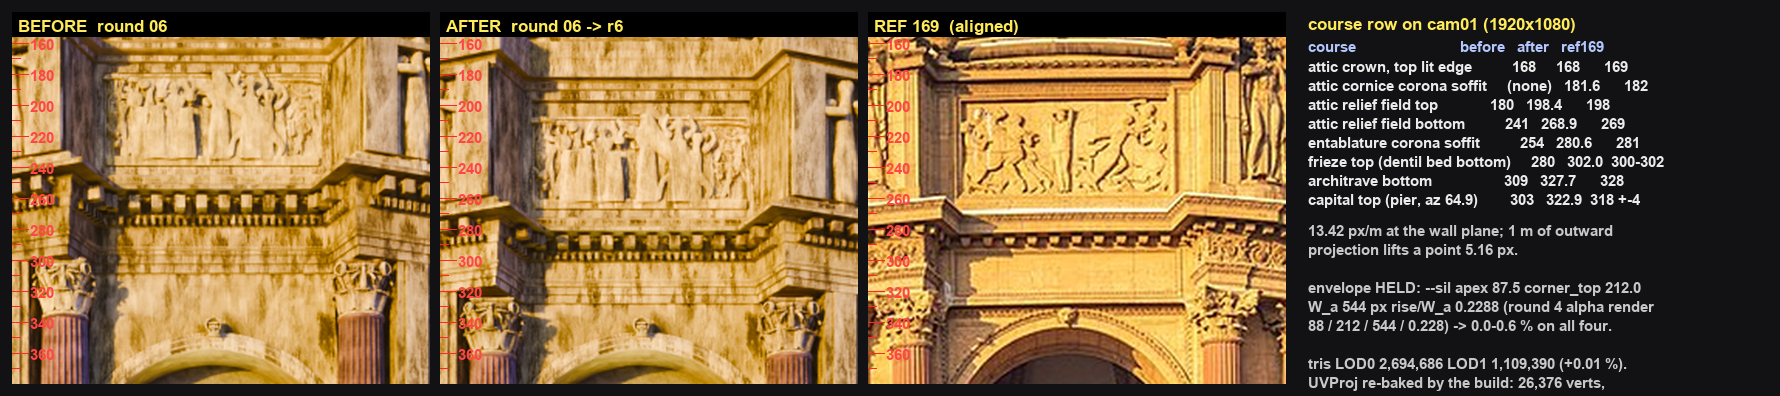
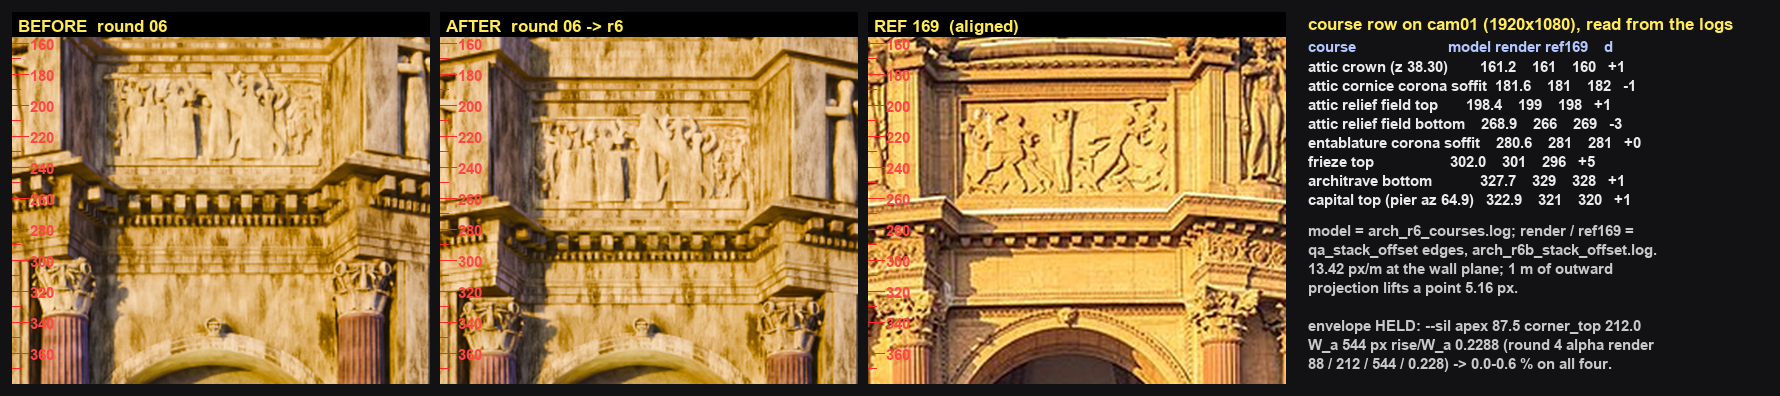
ARCH r6b: socket property contract, log-derived sheet, ref 062 re-fit (review fixes 1-7,10)
- capital_height on capital_rotunda/_inner/_colonnade, band_height on the 24 rotunda + 4
  colonnade frieze_run sockets, subtype=crown on the 8 arch keystones (review 1, 2)
- arch_socket_check --type props: per-type required-property table + non-zero exit (review 10)
- arch_stats.json written AFTER the save, so uvproj's tri guard compares the previous build
  and a uvproj raise can no longer leave stats for an unsaved build (review 6, 7)
- arch_ref062_fit: P.ATTIC_CORNICE_D instead of the hard-coded +0.74; re-fit logged (review 3)
- arch_r6_sheet: table parsed from arch_r6_courses.log + qa_stack_offset, "attic crown" row
  relabelled to the real crown z 38.30 / row 161.2 (review 5)
- qa_stack_offset re-run on the r6 sheet and on QA's pre-r6 sheet, logs committed (review 4)

Claude-Session: https://claude.ai/code/session_01BM3ywAYR2HwsafcB98516E

Changed region(s): [[0.7107, 0.5758, 0.927, 1.0], [0.7725, 0.0303, 0.9888, 0.5152]]

diff --git a/scripts/arch_build.py b/scripts/arch_build.py
@@ -248,7 +248,8 @@ def build_rotunda():
             for j, so in enumerate(base_src):
                 L.instance(f"ARCH_rotunda_colbase_{i:02d}_{j}", so, loc, math.atan2(u[1], u[0]) if j == 0 else 0.0, C)
         # capital socket at the shaft top, +Y outward (face normal); astragal bead just below it
-        SOCK.add("capital_rotunda", (ax[0], ax[1], P.COL_SHAFT_Z1), n, P.COL_D_TOP)
+        SOCK.add("capital_rotunda", (ax[0], ax[1], P.COL_SHAFT_Z1), n, P.COL_D_TOP,
+                 extra={"capital_height": P.CAPITAL_H})
         astragal(f"ARCH_rotunda_astragal_{i:02d}", ax, P.COL_SHAFT_Z1, r_t, C, M_ROSE)
         # pedestal
         L.box(f"ARCH_rotunda_pedestal_{i:02d}", ax, (P.PEDESTAL_SIZE, P.PEDESTAL_SIZE), P.PODIUM_TOP_Z - SINK,
@@ -345,7 +346,7 @@ def build_rotunda():
             SOCK.add("frieze_run", (a[0] + out[0] * fd, a[1] + out[1] * fd, P.ENTABLATURE_Z0 + P.ARCHITRAVE_H), out,
                      math.dist(a, b), size=0.4,
                      extra={"run_length": math.dist(a, b), "run_dir": (d[0], d[1], 0.0),
-                            "host": "rotunda", "subtype": "rinceau"})
+                            "band_height": P.FRIEZE_H, "host": "rotunda", "subtype": "rinceau"})
 
     # ---- faces: spandrel + attic plate with the arch notch and the sunk relief panel; vault; inner spandrel
     n_arc = 28
@@ -389,7 +390,8 @@ def build_rotunda():
         L.sweep_open(f"ARCH_rotunda_archivolt_{k:02d}", path, nrm, bnr, archivolt_profile(), C, mat=M_OCHRE, part_type="wall",
                      origin=(Cw[0], Cw[1], P.ARCH_SPRING_Z), bevel=False)
         # keystone at the extrados crown + two impost masks at the springing
-        SOCK.add("keystone", (Cw[0] + n[0] * 0.30, Cw[1] + n[1] * 0.30, P.ARCH_CROWN_Z + 0.55), n, 0.8)
+        SOCK.add("keystone", (Cw[0] + n[0] * 0.30, Cw[1] + n[1] * 0.30, P.ARCH_CROWN_Z + 0.55), n, 0.8,
+                 extra={"subtype": "crown"})
         for sgn in (-1, 1):
             SOCK.add("keystone", (Cw[0] + X.x * sgn * (half + 0.55) + n[0] * 0.30, Cw[1] + X.y * sgn * (half + 0.55) + n[1] * 0.30,
                                   P.ARCH_SPRING_Z - 0.25), n, 0.5, extra={"subtype": "impost_mask"}, size=0.4)
@@ -528,7 +530,8 @@ def build_rotunda():
         else:
             for j, so in enumerate(srcs["base"]):
                 L.instance(f"ARCH_rotunda_inner_colbase_{k:02d}_{j}", so, (ax[0], ax[1], -SINK), rz if j == 0 else 0.0, C)
-        SOCK.add("capital_inner", (ax[0], ax[1], P.INNER_COL_SHAFT_Z1), fr.v, ri * 2 * 0.86)
+        SOCK.add("capital_inner", (ax[0], ax[1], P.INNER_COL_SHAFT_Z1), fr.v, ri * 2 * 0.86,
+                 extra={"capital_height": P.INNER_CAPITAL_H})
         astragal(f"ARCH_rotunda_inner_astragal_{k:02d}", ax, P.INNER_COL_SHAFT_Z1, ri * 0.86, C, M_TAN)
         L.placeholder_capital(f"PH_capital_inner_{k:02d}", ri * 0.86, P.INNER_CAPITAL_H, C_PH, mat=M_TAN,
                               origin=(ax[0], ax[1], P.INNER_COL_SHAFT_Z1))
@@ -1158,7 +1161,8 @@ def build_wing(name, coll):
             for j, so in enumerate(base_src):
                 L.instance(f"ARCH_colonnade_{name}_colbase_{idx:03d}_{j}", so, (xy[0], xy[1], g - SINK), 0.0, coll)
         ztop = g + P.COLONNADE_BASE_H + h
-        SOCK.add("capital_colonnade", (xy[0], xy[1], ztop), inward, P.COLONNADE_D_TOP, extra={"tall": bool(tall), "wing": name})
+        SOCK.add("capital_colonnade", (xy[0], xy[1], ztop), inward, P.COLONNADE_D_TOP,
+                 extra={"tall": bool(tall), "wing": name, "capital_height": P.COLONNADE_CAPITAL_H})
         astragal(f"ARCH_colonnade_{name}_astragal_{idx:03d}", xy, ztop, r_t, coll, M_COLON)
         L.placeholder_capital(f"PH_capital_colonnade_{name}_{idx:03d}", r_t, P.COLONNADE_CAPITAL_H, C_PH, mat=M_COLON,
                               origin=(xy[0], xy[1], ztop))
@@ -1200,7 +1204,8 @@ def build_wing(name, coll):
                           pitch=1.125, depth=0.26, closed=False, mat=M_COLON, outward_sign=sgn if W.sgn > 0 else -sgn,
                           part_type="colonnade_entablature")
         SOCK.add("frieze_run", (path2[0][0], path2[0][1], z_ent + 0.02), (rad[0], rad[1]), s_b - s_a,
-                 extra={"run_length": s_b - s_a, "arc_center": (W.C[0], W.C[1], 0.0), "arc_radius": r, "subtype": "greek_fret"}, size=0.5)
+                 extra={"run_length": s_b - s_a, "arc_center": (W.C[0], W.C[1], 0.0), "arc_radius": r,
+                        "band_height": 0.50, "host": "colonnade", "subtype": "greek_fret"}, size=0.5)
     # pergola cross beams, one per bay, spanning the two rows
     seen = set()
     for (s, kind) in pos:
@@ -1333,7 +1338,6 @@ stats["tris_placeholders"] = L.tri_count([o for o in C_PH.objects])
 stats["objects"] = len(ARCH.all_objects)
 stats["build_seconds"] = round(time.time() - T0, 1)
 print("[arch] stats:", json.dumps(stats, indent=1))
-(common.DOCS / "arch_stats.json").write_text(json.dumps(stats, indent=1))
 
 # MANDATORY post-step (docs/reviews/arch_r5_review.md finding 1): the camera-space UV layer for the photo-projection
 # pass. It used to be a separate script nobody called, so any rebuild silently dropped `UVProj` / `UVProj_valid` and
@@ -1345,6 +1349,12 @@ exec(compile(_UVPROJ.read_text(), str(_UVPROJ), "exec"),
 
 if SAVE:
     common.save_blend(common.ASSETS / "architecture.blend")
+
+# r6 review findings 6 and 7: arch_stats.json is written AFTER the save, so (6) uvproj's tri-count guard above
+# compares the live counts against the PREVIOUS build's file instead of the one this build just wrote (it was
+# always "SAME"), and (7) a raise inside the uvproj post-step leaves the stats describing the last SAVED build
+# rather than a build that never reached the disk.
+(common.DOCS / "arch_stats.json").write_text(json.dumps(stats, indent=1))
 
 # ============================================================================= preview rig (not saved)
 if PREVIEW:

diff --git a/scripts/arch_r6_sheet.py b/scripts/arch_r6_sheet.py
@@ -8,9 +8,17 @@ Inputs, all already in the 1920x1080 cam01 pixel grid:
   after  : renders/previews/architecture/arch_r6_cam01_stack.png (this round's Cycles 64 spp border render)
 Outputs:
   renders/qa_comparisons/arch_r6_aligned_vs_ref169.png   3 panels (after | ref | blend) -- the file qa_stack_offset
-                                                         re-runs on, so QA's own tool measures this round's rows
+                                                         re-runs on, so QA's own tool measures this round's rows.
+                                                         INTERMEDIATE, regenerated by this script, not committed.
   renders/qa_comparisons/arch_r6_sheet.png               the composite for the report
+
+The burnt-in table is READ FROM THE LOGS, not transcribed (r6 review finding 5): the model row of each course comes
+from `renders/logs/arch_r6_courses.log` (`arch_entab_probe --courses`), and the rendered / photographed rows are the
+edges `renders/logs/arch_r6b_stack_offset.log` found in the same x 880-1040 band (`qa_stack_offset.py`), so the sheet
+can disagree with the report. Pairing rule, stated so it can be checked: for each course take the nearest RENDER edge
+with |dL/dy| >= 2 within 6 rows of the model row, then the nearest REF edge with |dL/dy| >= 6 within 6 rows of that.
 """
+import re
 import sys
 from pathlib import Path
 import numpy as np
@@ -24,15 +32,53 @@ FONT = "/System/Library/Fonts/Supplemental/Arial Bold.ttf"
 X0, X1, Y0, Y1 = 830, 1100, 140, 380          # the band the round-6 work moves (measurement band is x 880-1040)
 SCALE = 1.55
 
-# course table: (label, before row, after row, ref 169 row); rows are 1920x1080 cam01 rows.
-TABLE = [("attic crown, top lit edge", "168", "168", "169"),
-         ("attic cornice corona soffit", "(none)", "181.6", "182"),
-         ("attic relief field top", "180", "198.4", "198"),
-         ("attic relief field bottom", "241", "268.9", "269"),
-         ("entablature corona soffit", "254", "280.6", "281"),
-         ("frieze top (dentil bed bottom)", "280", "302.0", "300-302"),
-         ("architrave bottom", "309", "327.7", "328"),
-         ("capital top (pier, az 64.9)", "303", "322.9", "318 +-4")]
+# ---- the course table, parsed from the two committed logs (r6 review finding 5)
+LOGS = ROOT / "renders" / "logs"
+COURSES_LOG = LOGS / "arch_r6_courses.log"
+OFFSET_LOG = LOGS / "arch_r6b_stack_offset.log"
+# which courses of the log to show, and the short label for the 470 px table column. The first row is the CROWN at
+# z 38.30 (model row 161.2); the old sheet called row 168 "attic crown", which this round's own argument rejects.
+SHOW = [("attic top (cornice crown)", "attic crown (z 38.30)"),
+        ("attic cornice corona soffit", "attic cornice corona soffit"),
+        ("attic relief field top", "attic relief field top"),
+        ("attic relief field bottom", "attic relief field bottom"),
+        ("cornice corona bottom (soffit lip)", "entablature corona soffit"),
+        ("frieze top", "frieze top"),
+        ("architrave bottom", "architrave bottom"),
+        ("capital top (pier, az 64.9)", "capital top (pier az 64.9)")]
+
+
+def parse_courses(path):
+    """label -> model row, from the `course  z  d  row  col` block of arch_entab_probe --courses."""
+    out = {}
+    for line in path.read_text().splitlines():
+        m = re.match(r"^(\S.*?)\s\s+(-?\d+\.\d+)\s+(-?\d+\.\d+)\s+(\d+\.\d+)\s+(\d+\.\d+)", line)
+        if m:
+            out[m.group(1).strip()] = float(m.group(4))
+    return out
+
+
+def parse_edges(txt, which):
+    """[(row, dL/dy)] from a `render edges (25): 157(+9.8), ...` line of qa_stack_offset."""
+    m = re.search(rf"^{which}\s+edges \(\d+\): (.*)$", txt, re.M)
+    return [(int(r), float(g)) for r, g in re.findall(r"(\d+)\(([-+][\d.]+)\)", m.group(1))] if m else []
+
+
+def nearest(edges, row, min_g, tol):
+    cand = [(abs(r - row), r) for r, g in edges if abs(g) >= min_g and abs(r - row) <= tol]
+    return min(cand)[1] if cand else None
+
+
+COURSES = parse_courses(COURSES_LOG)
+_off = OFFSET_LOG.read_text()
+R_EDGES, F_EDGES = parse_edges(_off, "render"), parse_edges(_off, "ref")
+TABLE = []
+for key, label in SHOW:
+    z = COURSES[key]
+    r = nearest(R_EDGES, z, 2.0, 6)
+    f = nearest(F_EDGES, r, 6.0, 6) if r is not None else None
+    d = f"{r - f:+d}" if (r is not None and f is not None) else "-"
+    TABLE.append((label, f"{z:.1f}", "-" if r is None else str(r), "-" if f is None else str(f), d))
 
 im = Image.open(BEFORE_SHEET).convert("RGB")
 W, H = im.width // 3, im.height
@@ -73,12 +119,14 @@ for p in panels:
     out.paste(p, (x, pad))
     x += p.width + gap
 x += pad
-d.text((x, pad + 2), "course row on cam01 (1920x1080)", font=f_lab, fill=(255, 235, 90))
-d.text((x, pad + 26), f"{'course':30s}{'before':>8s}{'after':>8s}{'ref169':>9s}", font=f_tab, fill=(180, 200, 255))
-for i, (lab, b, a, r) in enumerate(TABLE):
-    d.text((x, pad + 46 + i * 19), f"{lab:30s}{b:>8s}{a:>8s}{r:>9s}", font=f_tab, fill=(235, 235, 235))
+d.text((x, pad + 2), "course row on cam01 (1920x1080), read from the logs", font=f_lab, fill=(255, 235, 90))
+d.text((x, pad + 26), f"{'course':27s}{'model':>7s}{'render':>7s}{'ref169':>7s}{'d':>5s}", font=f_tab, fill=(180, 200, 255))
+for i, (lab, z, r, f, dd) in enumerate(TABLE):
+    d.text((x, pad + 46 + i * 19), f"{lab:27s}{z:>7s}{r:>7s}{f:>7s}{dd:>5s}", font=f_tab, fill=(235, 235, 235))
 y = pad + 46 + len(TABLE) * 19 + 12
-for line in ["13.42 px/m at the wall plane; 1 m of outward",
+for line in ["model = arch_r6_courses.log; render / ref169 =",
+             "qa_stack_offset edges, arch_r6b_stack_offset.log.",
+             "13.42 px/m at the wall plane; 1 m of outward",
              "projection lifts a point 5.16 px.",
              "",
              "envelope HELD: --sil apex 87.5 corner_top 212.0",

diff --git a/scripts/arch_socket_check.py b/scripts/arch_socket_check.py
@@ -23,6 +23,40 @@ def world_matrix(o):
         return o.matrix_world
     return o.matrix_basis
 
+# ----------------------------------------------------------------------------- documented-property contract
+# docs/sockets.md: every socket carries orn_type / size_hint / variant_seed; these are the EXTRA properties each
+# type must carry.  `--type props` walks every SOCKET_* in the file and reports any type missing any of them.
+BASE_PROPS = ("orn_type", "size_hint", "variant_seed")
+REQUIRED_PROPS = {
+    "capital_rotunda":   ("capital_height",),
+    "capital_inner":     ("capital_height",),
+    "capital_colonnade": ("capital_height", "tall", "wing"),
+    "frieze_run":        ("run_length", "band_height", "host", "subtype"),
+    "attic_panel":       ("panel_height", "design"),
+    "maiden":            ("rim_height", "box_corner_y"),
+    "keystone":          ("subtype",),
+    "finial":            ("subtype",),
+    "drum_band":         ("run_length", "radius"),
+}
+if want == "props":
+    types = {}
+    for o in bpy.data.objects:
+        if o.name.startswith("SOCKET_"):
+            types.setdefault(o.get("orn_type", o.name[7:-4]), []).append(o)
+    bad = 0
+    print(f"{'type':20s} {'n':>4s}  required properties (BASE + type)                          missing")
+    for t, v in sorted(types.items()):
+        need = BASE_PROPS + REQUIRED_PROPS.get(t, ())
+        miss = {k: sum(1 for o in v if o.get(k) is None) for k in need}
+        miss = {k: c for k, c in miss.items() if c}
+        bad += bool(miss)
+        sample = {k: v[0].get(k) for k in REQUIRED_PROPS.get(t, ())}
+        print(f"  {t:18s} {len(v):4d}  {'+'.join(need):56s} "
+              f"{'none  ' + str(sample) if not miss else 'MISSING ' + str(miss)}")
+    print(f"[socket_check] {len(types)} types, {sum(len(v) for v in types.values())} sockets; "
+          f"{'ALL OK' if not bad else str(bad) + ' TYPES INCOMPLETE'}")
+    raise SystemExit(1 if bad else 0)
+
 # ----------------------------------------------------------------------------- frieze_run frame contract
 # (orn r5 review findings 1 and 2, added in architecture round 6.) A frieze_run socket is a RUN, not a point:
 #   origin = the run START,  local +X = run_dir,  local +Y = the outward face normal (away from the host block),
@@ -78,7 +112,7 @@ if want == "frieze_run":
     print("[socket_check] rotunda contract: origin at the run START, +X = run_dir (dot > 0.99), +Y away from the "
           "ressaut block centre (> 0), +Z world up, host + subtype present")
     print(f"[socket_check] {'ALL OK' if not bad else str(bad) + ' WRONG'}")
-    raise SystemExit(0)
+    raise SystemExit(1 if bad else 0)
 
 bad, perps = 0, []
 for o in socks:
@@ -112,3 +146,4 @@ if perps:
     if spread > 1e-3:
         bad += 1
 print(f"[socket_check] {'ALL OK' if not bad else str(bad) + ' WRONG'}")
+raise SystemExit(1 if bad else 0)

diff --git a/scripts/arch_ref062_fit.py b/scripts/arch_ref062_fit.py
@@ -40,7 +40,7 @@ NEAR_FACE_AZ = 37.0        # the octagon face the camera looks at (faces at FACE
 # 20 px ruler (scratchpad ref062_center / ref062_arch); sigma is the width of the moulding the line sits on.
 LANDMARKS = [
     ("dome apex (cap top)",      P.DOME_APEX_Z + 0.6, 0.0,                  35.0,  4.0),
-    ("attic top (drum springs)", P.ATTIC_Z1,          P.WALL_APOTHEM + 0.74, 99.0,  6.0),
+    ("attic top (drum springs)", P.ATTIC_Z1,          P.WALL_APOTHEM + P.ATTIC_CORNICE_D, 99.0,  6.0),
     ("attic base (modillions)",  P.ATTIC_Z0,          P.WALL_APOTHEM,       330.0, 12.0),
     ("outer arch springing",     P.ARCH_SPRING_Z,     P.WALL_APOTHEM,       700.0, 15.0),
 ]
@@ -128,7 +128,7 @@ def predictions(D, lens, pitch, h):
     x_lo, x_hi = float(pod[:, 0].min()), float(pod[:, 0].max())
     # dome clearance over the NEAR face's attic cornice and over the whole attic ring (QA's stricter test)
     n = np.array(P.az_dir(NEAR_FACE_AZ))
-    near_att = cam.project(np.array([[n[0] * (P.WALL_APOTHEM + 0.74), n[1] * (P.WALL_APOTHEM + 0.74), P.ATTIC_Z1]]))[0, 1]
+    near_att = cam.project(np.array([[n[0] * (P.WALL_APOTHEM + P.ATTIC_CORNICE_D), n[1] * (P.WALL_APOTHEM + P.ATTIC_CORNICE_D), P.ATTIC_Z1]]))[0, 1]
     apex = cam.project(np.array([[0.0, 0.0, P.DOME_APEX_Z + 0.6]]))[0, 1]
     ring = DC.top_profile(cam, DC.attic_top_ring(), cam.rx)
     ring_top = float(np.nanmin(ring[np.isfinite(ring)]))
@@ -149,7 +149,7 @@ def clearance_threshold(h=1.55):
 
     and, inverted, it says what the stack would have to be for a CLOSE station to show the same thing."""
     apex = P.DOME_APEX_Z + 0.6
-    r_att = P.WALL_APOTHEM + 0.74
+    r_att = P.WALL_APOTHEM + P.ATTIC_CORNICE_D
     d_min = r_att * (apex - h) / (apex - P.ATTIC_Z1)
     out = dict(d_min=d_min)
     for D in (45.0, 50.0):
@@ -307,7 +307,7 @@ if __name__ == "__main__":
     ct = clearance_threshold(a.eye)
     print("\n# the lens- and tilt-independent constraint (why no close station can reproduce ref 062)")
     print(f"  ref 062 shows the dome cap ABOVE the near face's attic cornice. With the current stack "
-          f"(apex {P.DOME_APEX_Z + 0.6:.1f}, attic {P.ATTIC_Z1:.1f} at r {P.WALL_APOTHEM + 0.74:.1f}) that needs")
+          f"(apex {P.DOME_APEX_Z + 0.6:.1f}, attic {P.ATTIC_Z1:.1f} at r {P.WALL_APOTHEM + P.ATTIC_CORNICE_D:.1f}) that needs")
     print(f"      D > {ct['d_min']:.1f} m  -- independent of lens, tilt, framing and azimuth.")
     for D in (45.0, 50.0):
         print(f"  to show it from D = {D:.0f} m instead you would need the apex at "

diff --git a/scripts/arch_uvproj.py b/scripts/arch_uvproj.py
@@ -235,9 +235,11 @@ for lod in (0, 1, 2):
            and not o.name.startswith("PH_")]
     stats[f"tris_LOD{lod}"] = L.tri_count(sel)
 stats["objects"] = len(ARCH.all_objects)
+# arch_build writes arch_stats.json AFTER its save (r6 review finding 6), so as the build's post-step this reads
+# the PREVIOUS build's counts and the comparison is a real regression guard, not a read-back of this run's own file.
 old = json.loads((common.DOCS / "arch_stats.json").read_text())
 for k, v in stats.items():
-    print(f"[uvproj] {k}: {v} (arch_stats.json {old.get(k)}) {'SAME' if old.get(k) == v else 'CHANGED'}")
+    print(f"[uvproj] {k}: {v} (previous build {old.get(k)}) {'SAME' if old.get(k) == v else 'CHANGED'}")
     fails += old.get(k) != v
 
 if SAVE and not fails:
